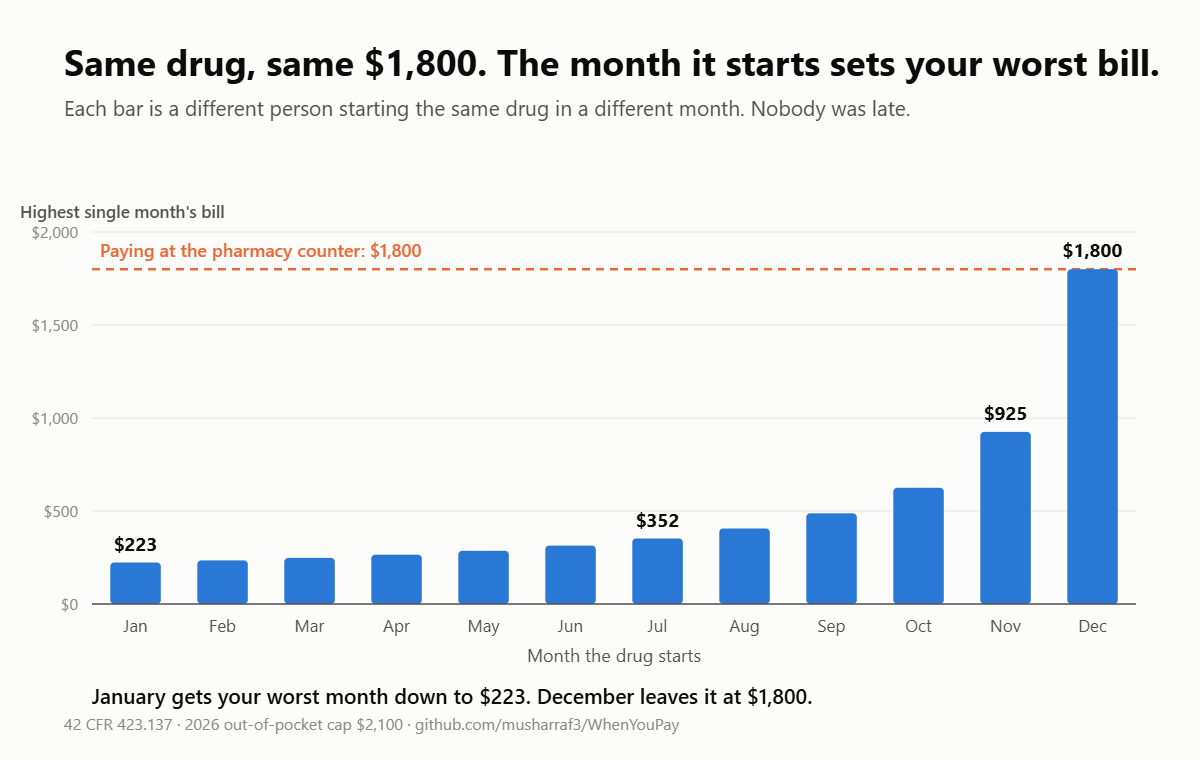
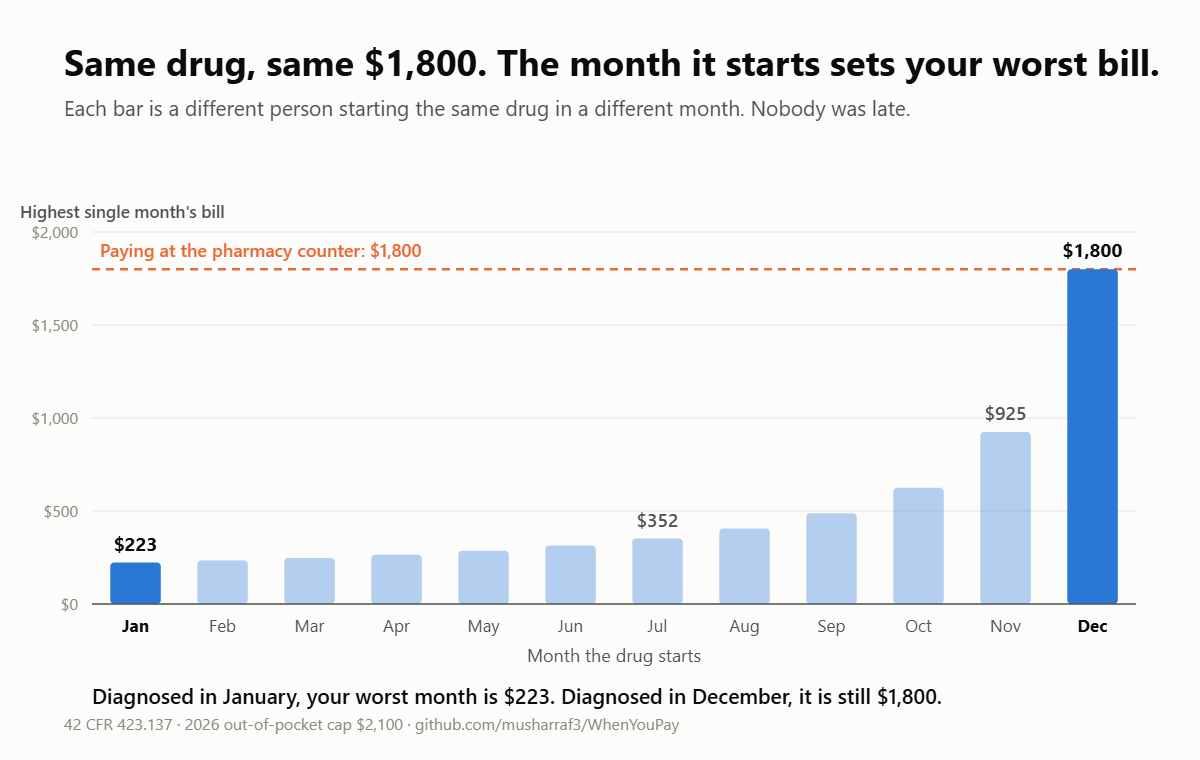
Point the figures at the comparison the post now opens with
The post's opening changed from January vs November to January vs December.
November was described as barely moving the worst month, which is wrong -- it
nearly halves it, to $925. December is the only month where the program does
nothing at all, and it is the right-hand end of the calendar chart, so the
opening line and the first image now assert the same fact.

Calendar figure: January and December carry full-strength fill and bold labels;
the other ten drop to a tint of the same hue. Focus and context rather than a
second colour, so nothing suggests the middle months are a different kind of
thing. The closing line names both cases the way the post does.

Cliff figure: subtitle now says "a maintenance drug with a steady copay",
matching the post, which no longer claims this describes most people with a
chronic condition -- a population claim the repository never established.

diff --git a/figures/make_figures.py b/figures/make_figures.py
@@ -92,19 +92,26 @@ def calendar_figure() -> str:
 
     slot = plot_w / len(rows)
     bw = slot * 0.58
+    focus = {0, len(rows) - 1}          # the two people the post opens with
     for i, r in enumerate(rows):
         amt = r["worst_month"]
         bh = plot_h * amt / top
         x = x0 + slot * i + (slot - bw) / 2
         y = y0 + plot_h - bh
+        op = "" if i in focus else ' fill-opacity="0.35"'
         s.append(f'<rect x="{x:.1f}" y="{y:.1f}" width="{bw:.1f}" '
-                 f'height="{bh:.1f}" rx="4" fill="{BLUE}"/>')
-        if i in (0, 6, 10, 11):
+                 f'height="{bh:.1f}" rx="4" fill="{BLUE}"{op}/>')
+        if i in focus or i in (6, 10):
+            weight = 700 if i in focus else 600
+            ink = INK if i in focus else INK2
             s.append(f'<text x="{x+bw/2:.1f}" y="{y-12:.1f}" font-size="19" '
-                     f'font-weight="700" fill="{INK}" text-anchor="middle">'
+                     f'font-weight="{weight}" fill="{ink}" text-anchor="middle">'
                      f'${amt:,.0f}</text>')
+        lab_ink = INK if i in focus else INK2
+        lab_w = 700 if i in focus else 400
         s.append(f'<text x="{x+bw/2:.1f}" y="{y0+plot_h+28:.1f}" font-size="17" '
-                 f'fill="{INK2}" text-anchor="middle">{esc(r["shock_month"][:3])}</text>')
+                 f'font-weight="{lab_w}" fill="{lab_ink}" text-anchor="middle">'
+                 f'{esc(r["shock_month"][:3])}</text>')
 
     s.append(f'<line x1="{x0}" y1="{y0+plot_h}" x2="{x0+plot_w}" y2="{y0+plot_h}" '
              f'stroke="{INK2}" stroke-width="1.5"/>')
@@ -112,8 +119,8 @@ def calendar_figure() -> str:
              f'fill="{INK2}" text-anchor="middle">Month the drug starts</text>')
 
     s.append(f'<text x="{x0}" y="{y0+plot_h+100:.1f}" font-size="21" '
-             f'font-weight="600" fill="{INK}">January gets your worst month down '
-             f'to $223. December leaves it at $1,800.</text>')
+             f'font-weight="600" fill="{INK}">Diagnosed in January, your worst '
+             f'month is $223. Diagnosed in December, it is still $1,800.</text>')
     s.append("</svg>")
     return "\n".join(s)
 
@@ -135,7 +142,7 @@ def cliff_figure() -> str:
 
     s = head(
         "$60 every month. The program bills $181.19 in December.",
-        "Nothing unusual happens all year. The bill climbs because each month's "
+        "A maintenance drug with a steady copay. The bill climbs as each "
         "balance is divided into fewer remaining months.",
         "Medicare publishes the same shape: its $80-a-month example ends at "
         "$241.53 · github.com/musharraf3/WhenYouPay",
